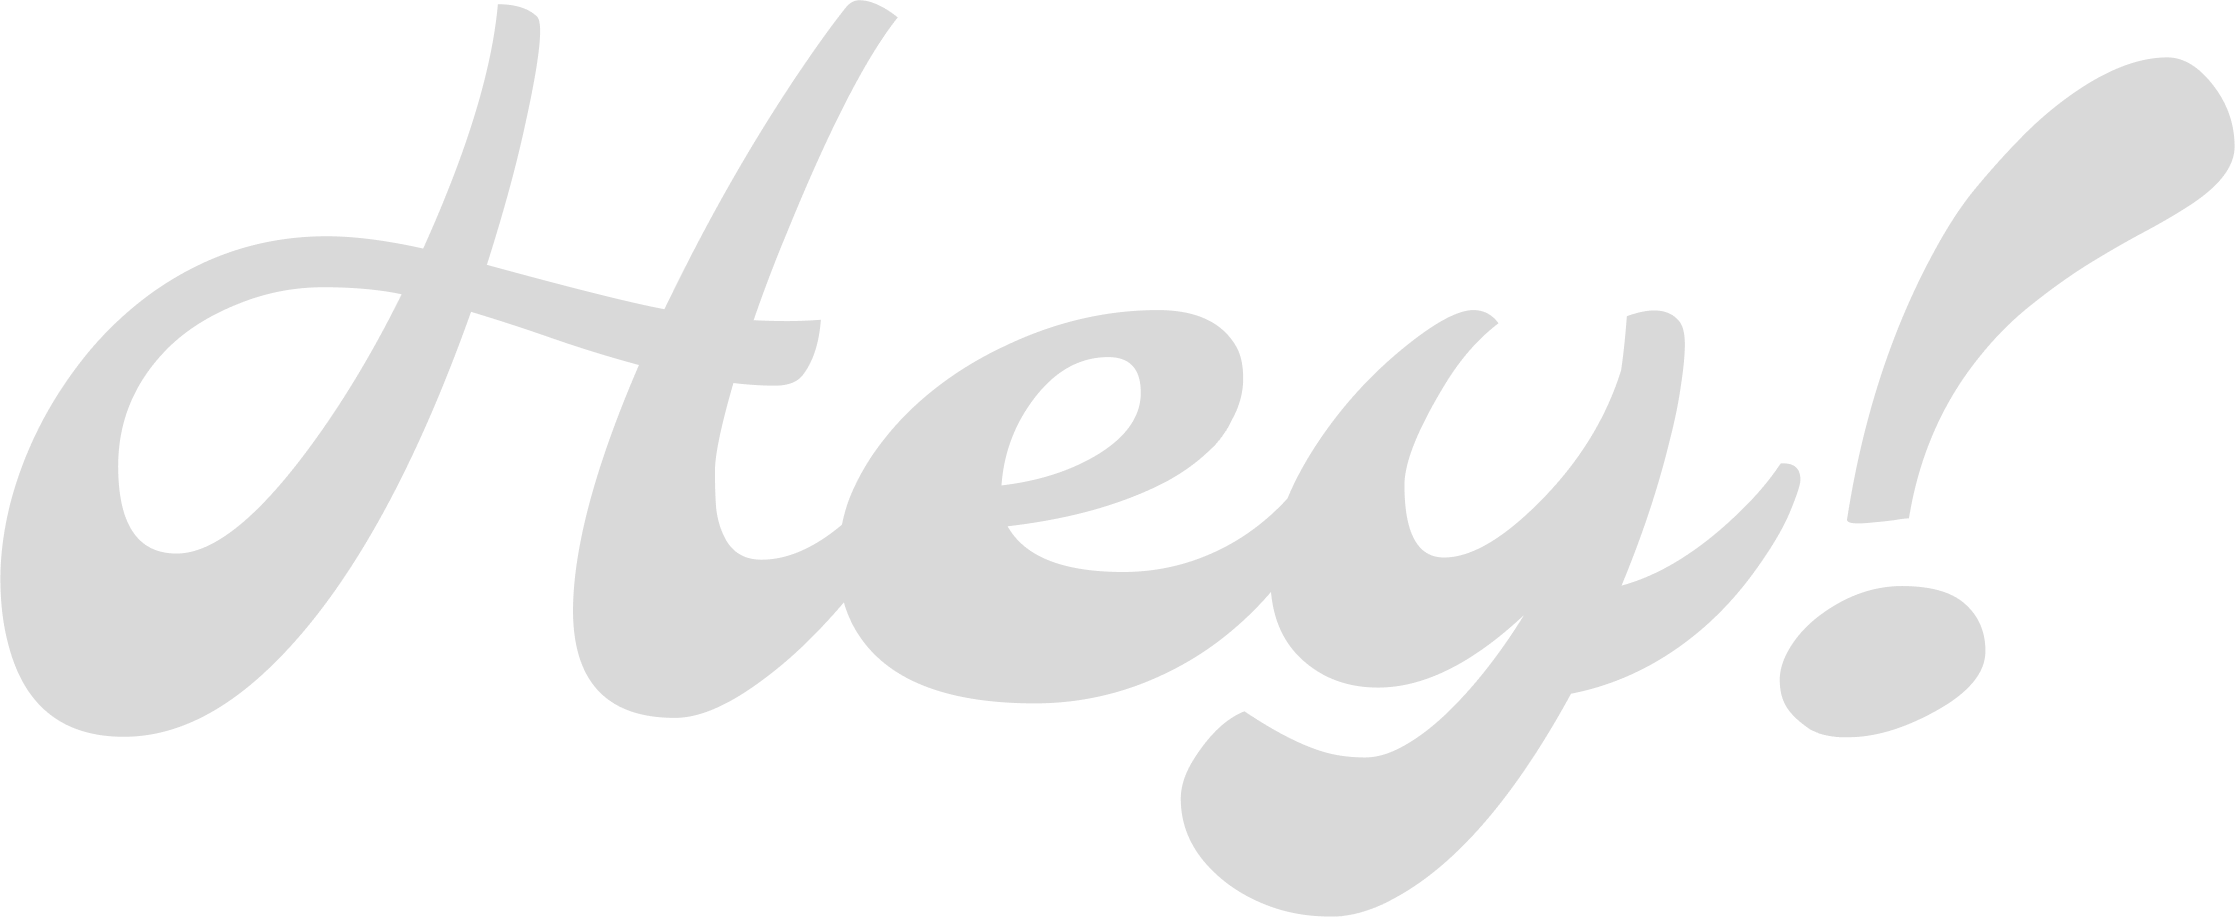
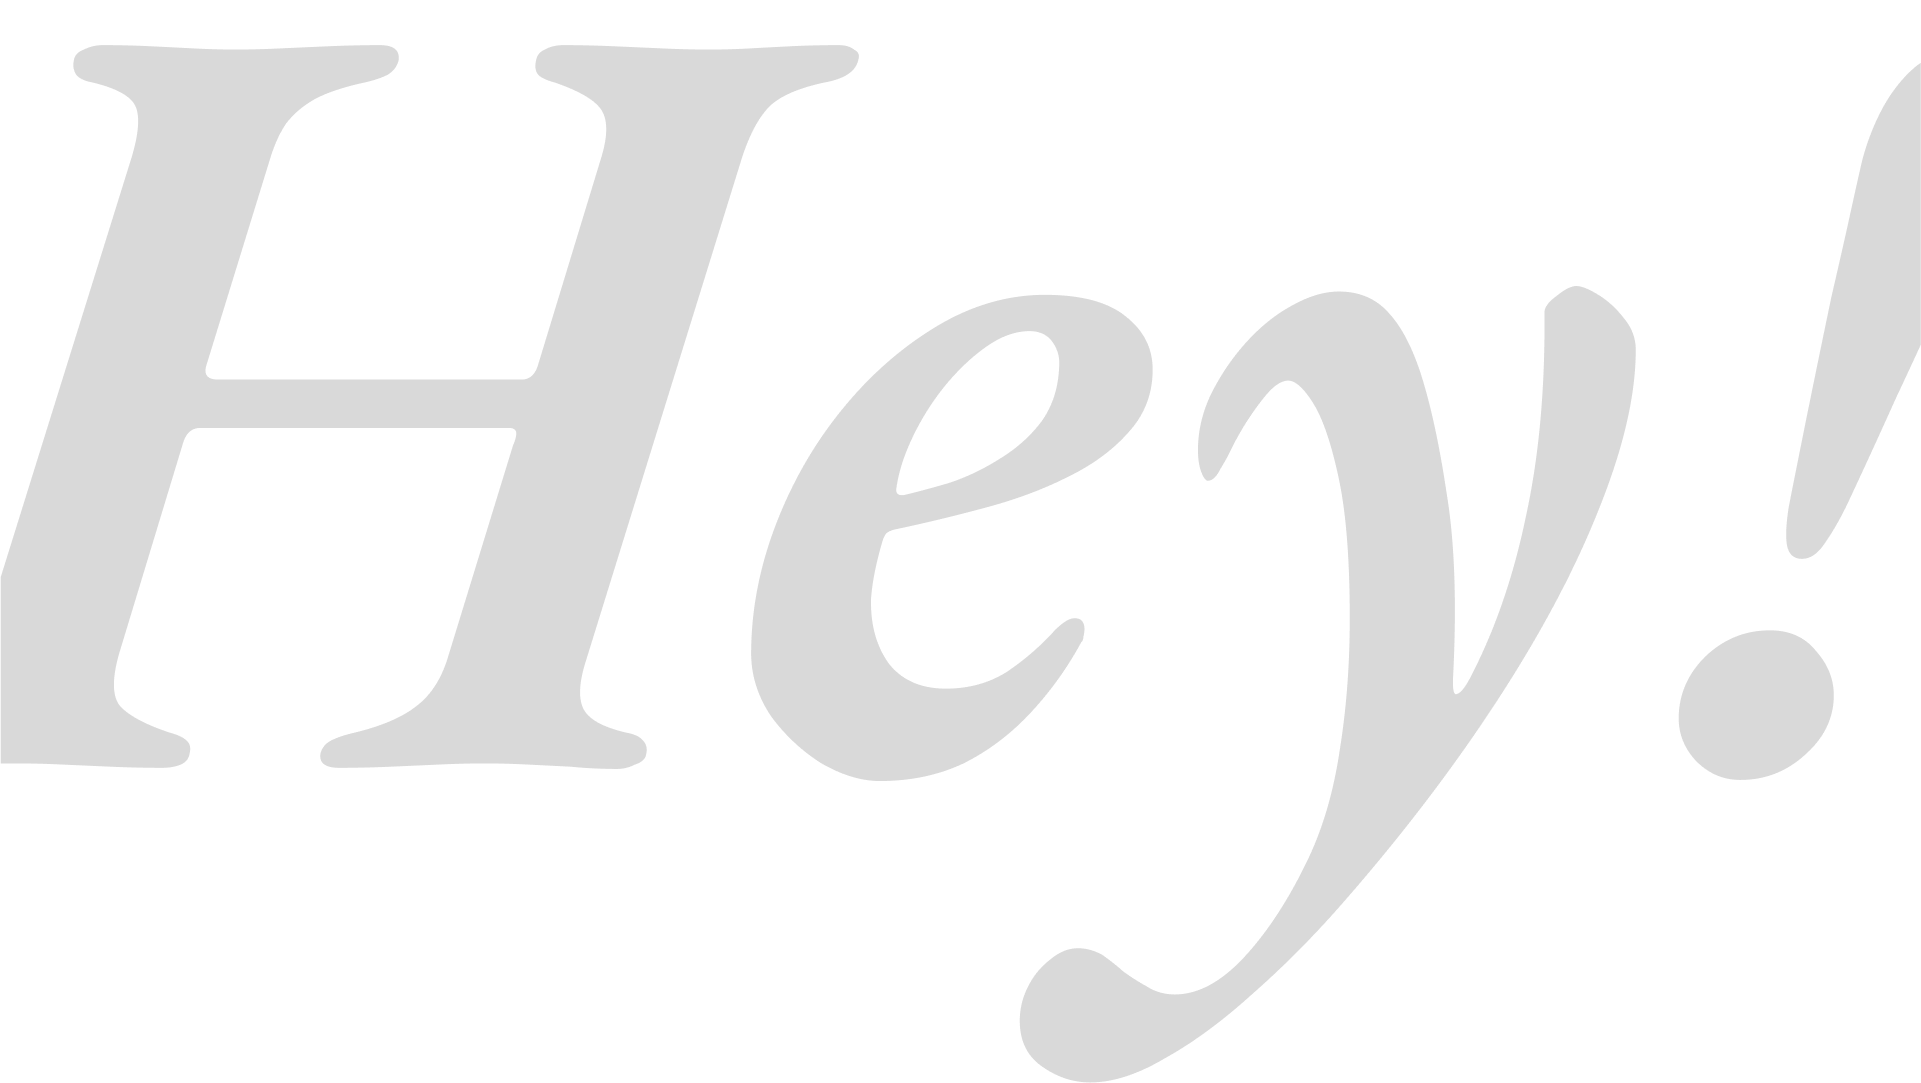
Updated fonts

Changed region(s): [[0.0, 0.0, 1.0, 1.0], [0.7808, 0.5802, 0.9682, 0.8244]]

diff --git a/src/app.styles.css b/src/app.styles.css
@@ -27,6 +27,8 @@ html{
   background: none;
   align-self: end;
   color: #3A3E41;
+  font-family: serif;
+  font-weight: 600;
 }
 
 .Header-title, h2 {
@@ -34,6 +36,7 @@ html{
   margin: 0;
   font-size: calc(64px);
   background: none;
+  font-weight: bold;
 }
 
 .Down-arrow {
@@ -63,16 +66,18 @@ html{
   color: #D65C3B;
   background-color: #F6F7EB;
   margin: 0;
+  font-family: serif;
+  font-weight: 600;
 }
 
 .About-title {
   grid-area: abouttitle;
-  font-weight: bold;
   font-size: calc(48px);
   color: #3A3E41;
   background-color: #F6F7EB;
   margin: 0;
   margin-bottom: 32px;
+  font-weight: bold;
 }
 
 .About-text {
@@ -111,6 +116,8 @@ html{
   color: #3A3E41;
   margin: 0;
   text-align: center;
+  font-family: serif;
+  font-weight: 600;
 }
 
 .Skills-title {
@@ -119,6 +126,7 @@ html{
   text-align: center;
   margin: 0;
   margin-bottom: 50px;
+  font-weight: bold;
 }
 
 .Skill {
@@ -136,6 +144,7 @@ html{
   color: #F0F0F0;
   margin: 0;
   justify-self: start;
+  font-weight: 600;
 }
 
 .Skill-percentage {
@@ -172,6 +181,8 @@ html{
   color: #D65C3B;
   background-color: #F6F7EB;
   margin: 0;
+  font-family: serif;
+  font-weight: 600;
 }
 
 .Experience-and-education-title {
@@ -181,6 +192,7 @@ html{
   background-color: #F6F7EB;
   margin: 0;
   margin-bottom: 32px;
+  font-weight: bold;
 }
 
 .Experience-text, span, p {
@@ -200,7 +212,7 @@ html{
 }
 
 .Place {
-  font-weight: bold;
+  font-weight: 600;
 }
 
 .Occupation {
@@ -225,6 +237,8 @@ ul, li {
   font-size: calc(20px);
   color: #3A3E41;
   margin: 0;
+  font-family: serif;
+  font-weight: 600;
 }
 
 .Contact-title {
@@ -232,6 +246,7 @@ ul, li {
   color: #F6F7EB;
   margin: 0;
   margin-bottom: 50px;
+  font-weight: bold;
 }
 
 .Contact-button {
@@ -249,6 +264,7 @@ ul, li {
   font-size: calc(20px);
   text-align: center;
   margin-left: 20px;
+  font-weight: 600;
 }
 
 footer {

diff --git a/public/index.html b/public/index.html
@@ -1,19 +1,21 @@
 <!DOCTYPE html>
 <html lang="en">
-  <head>
-    <meta charset="utf-8" />
-    <link rel="icon" href="%PUBLIC_URL%/favicon.png" />
-    <link href='https://fonts.googleapis.com/css?family=Montserrat' rel='stylesheet'>
-    <meta name="viewport" content="width=device-width, initial-scale=1" />
-    <meta name="theme-color" content="#000000" />
-    <meta
-      name="description"
-      content="Web site created using create-react-app"
-    />
-    <title>Tyreece Simpson</title>
-  </head>
-  <body>
-    <noscript>You need to enable JavaScript to run this app.</noscript>
-    <div id="root"></div>
-  </body>
+
+<head>
+  <meta charset="utf-8" />
+  <link rel="icon" href="%PUBLIC_URL%/favicon.png" />
+  <link rel="preconnect" href="https://fonts.googleapis.com">
+  <link rel="preconnect" href="https://fonts.gstatic.com" crossorigin>
+  <link href="https://fonts.googleapis.com/css2?family=EB+Garamond:ital,wght@0,400;0,600;1,600&family=Montserrat:ital,wght@0,400;0,600;0,700;1,400&display=swap" rel="stylesheet">
+  <meta name="viewport" content="width=device-width, initial-scale=1" />
+  <meta name="theme-color" content="#000000" />
+  <meta name="description" content="Web site created using create-react-app" />
+  <title>Tyreece Simpson</title>
+</head>
+
+<body>
+  <noscript>You need to enable JavaScript to run this app.</noscript>
+  <div id="root"></div>
+</body>
+
 </html>
